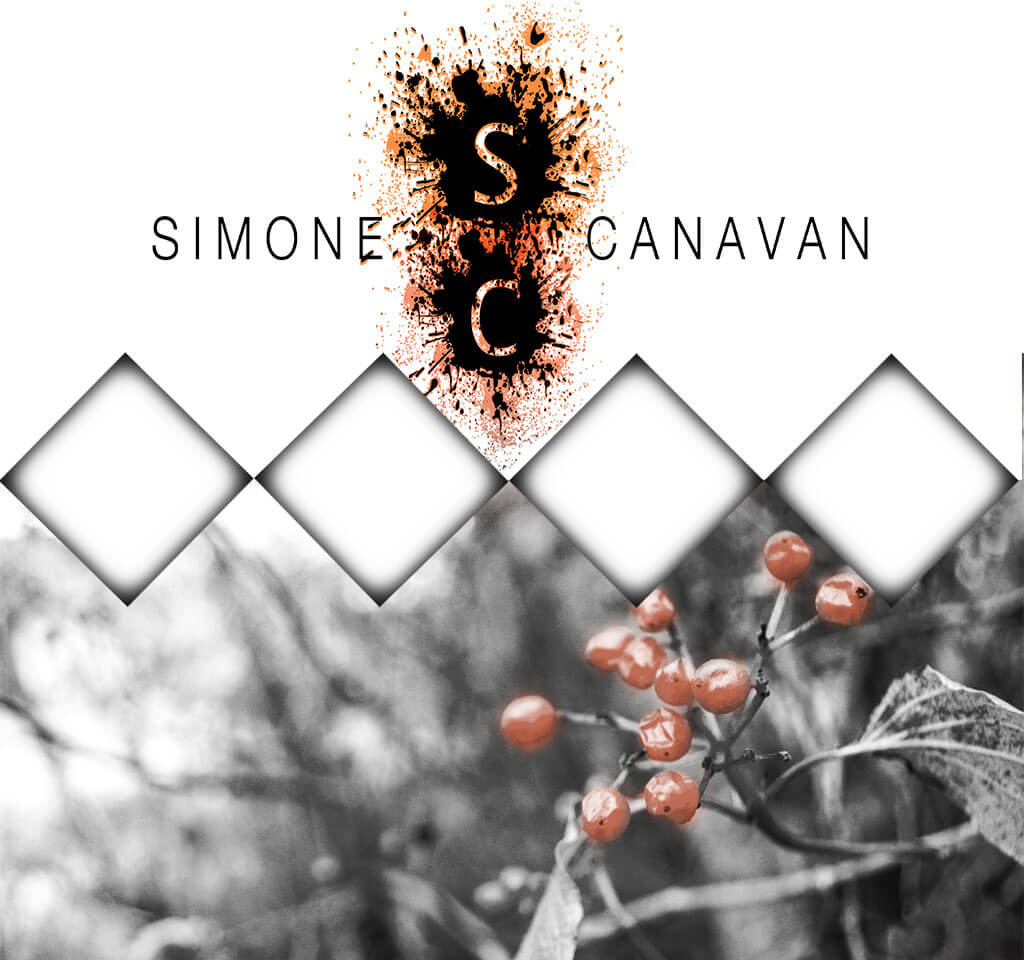
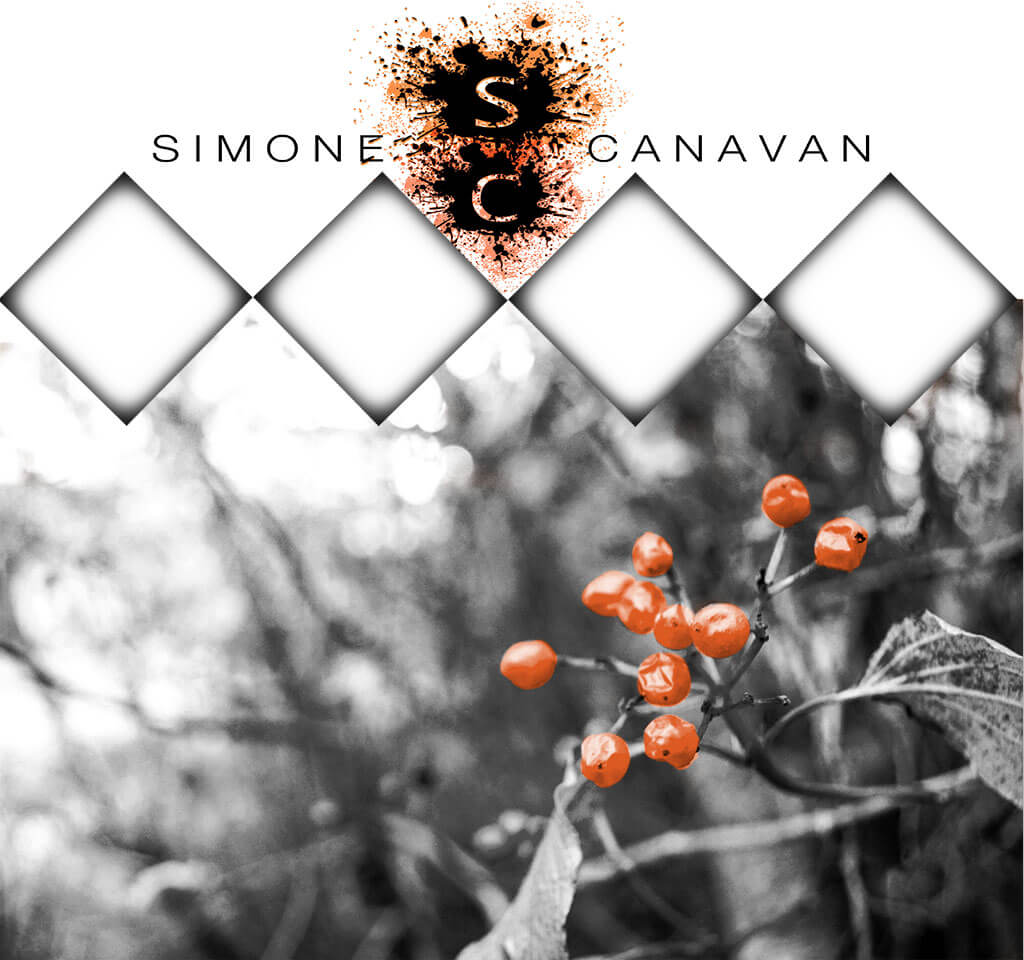
Added files via upload

diff --git a/assignment-style.css b/assignment-style.css
@@ -26,23 +26,9 @@ body
 	height: 960px;
 }
 
-.other1
+.other
 {	
-	background-image: url("images/top1.jpg");
-	background-size:cover;
-	height: 960px;
-}
-
-.other2
-{	
-	background-image: url("images/top2.jpg");
-	background-size:cover;
-	height: 960px;
-}
-
-.other3
-{	
-	background-image: url("images/top3.jpg");
+	background-image: url("images/top.jpg");
 	background-size:cover;
 	height: 960px;
 }
@@ -54,37 +40,19 @@ body
 {
 	height: 60px;
 	position: absolute;
-	top: 450px;
+	top: 280px;
 	font-size: 24px;
 	z-index: 2;
 	width: 100%;
 }
 
-.other1 .nav
+.other .nav
 {
 	height: 60px;
 	position: absolute;
 	top: 280px;
 	font-size: 24px;
-	width: 1024px;
-}
-
-.other2 .nav
-{
-	height: 60px;
-	position: absolute;
-	top: 280px;
-	font-size: 24px;
-	width: 1024px;
-}
-
-.other3 .nav
-{
-	height: 60px;
-	position: absolute;
-	top: 280px;
-	font-size: 24px;
-	width: 1024px;
+	width: 100%;
 }
 
 ul

diff --git a/photo.html b/photo.html
@@ -7,7 +7,7 @@
 </head>
 <body>
 
-<div class="other3">
+<div class="other">
 
 	<div class="top">
     <a href="index.html">

diff --git a/about.html b/about.html
@@ -8,7 +8,7 @@
 
 <body>
 
-<div class="other2">
+<div class="other">
 
 	<div class="top">
     <a href="index.html">

diff --git a/video.html b/video.html
@@ -8,7 +8,7 @@
 
 <body>
 
-<div class="other2">
+<div class="other">
 
 	<div class="top">
     <a href="index.html">

diff --git a/web.html b/web.html
@@ -8,7 +8,7 @@
 
 <body>
 
-<div class="other1">
+<div class="other">
 
 	<div class="top">
     <a href="index.html">
